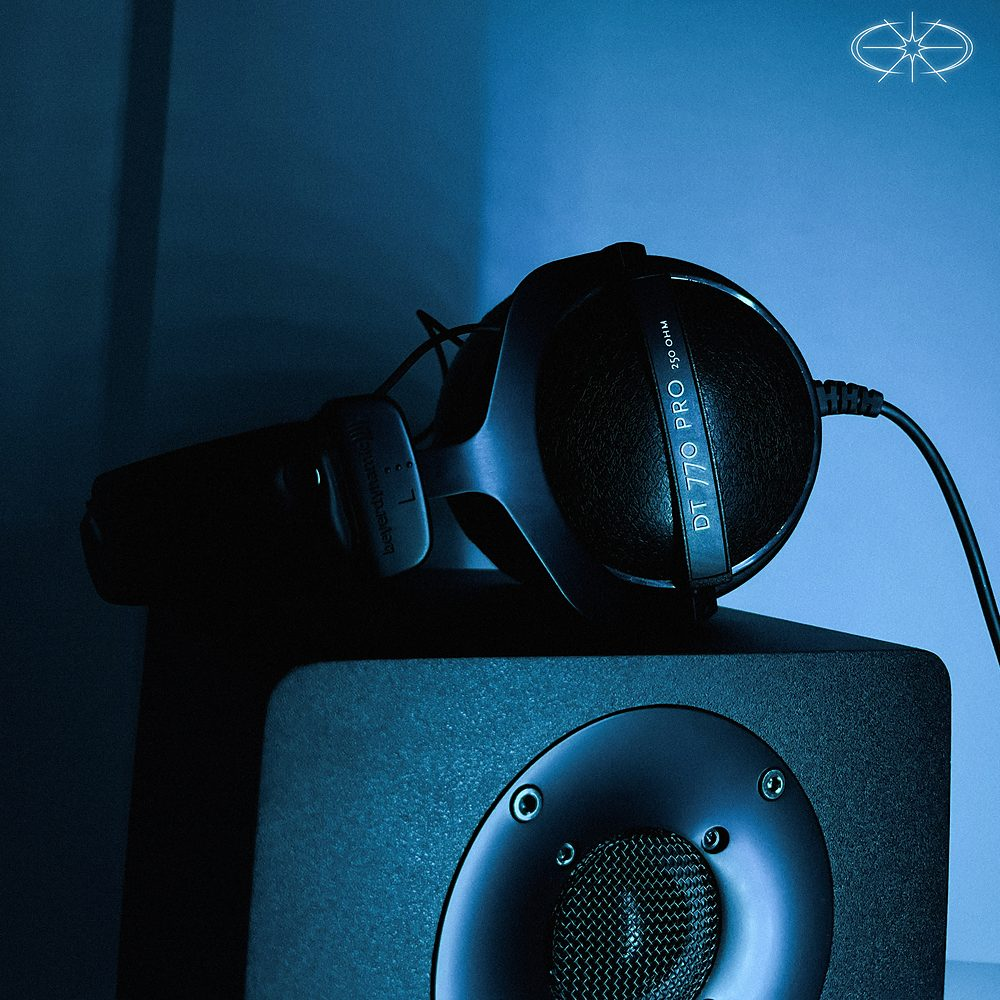
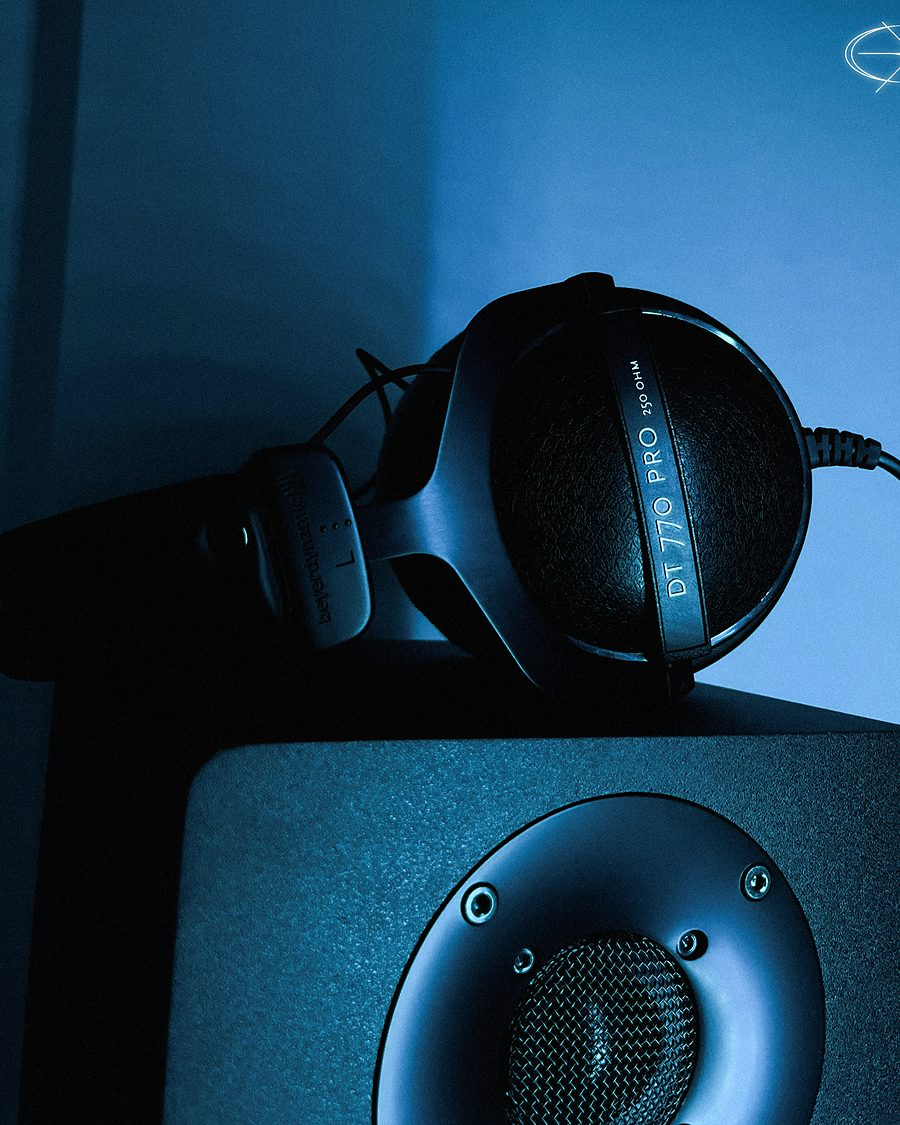
Единый формат 4:5, фото и прозвища Романа и Валерия
Все снимки приведены к одному соотношению 4:5. Выбрал его не наугад:
в наборе три почти квадратных кадра и три портрета 3:4. При 4:5
квадрат теряет 20% ширины, портрет 6% высоты. Квадрат, который стоял
раньше, резал портреты на 25% — отсюда и было то самое приближение.

Добавил фото Романа и Валерия, прозвища вынес под имена:
Роман — GONANIGHT, Валерий — Rockabyes.

На десктопе фото в карточке команды растягивалось под высоту текста,
из-за чего у каждого выходило своё соотношение — от 0.45 до 0.82.
Убрал растяжение, теперь все десять кадров ровно 0.800.

Исходники убрал в _originals/, папка исключена из git и из деплоя.

diff --git a/index.html b/index.html
@@ -431,12 +431,12 @@
     <!-- фото студии: только кадры в одном синем тоне, квадраты 03…08 -->
     <h3 class="sub-h js-fade">Студия</h3>
     <div class="gallery">
-      <figure class="gi js-card"><span class="ph ph-1x1"><img src="assets/photos/studio-03.jpg" alt="Зал студии Narcos Records с синей подсветкой" loading="lazy" width="786" height="786"></span></figure>
-      <figure class="gi js-card"><span class="ph ph-1x1"><img src="assets/photos/studio-04.jpg" alt="Студийный микрофон Neumann крупным планом" loading="lazy" width="800" height="800"></span></figure>
-      <figure class="gi js-card"><span class="ph ph-1x1"><img src="assets/photos/studio-05.jpg" alt="Звуковая карта Focusrite Scarlett на рабочем столе студии" loading="lazy" width="1000" height="1000"></span></figure>
-      <figure class="gi js-card"><span class="ph ph-1x1"><img src="assets/photos/studio-06.jpg" alt="Наушники Beyerdynamic DT 770 Pro на студийном мониторе" loading="lazy" width="1000" height="1000"></span></figure>
-      <figure class="gi js-card"><span class="ph ph-1x1"><img src="assets/photos/studio-07.jpg" alt="Работа за пультом в студии Narcos Records" loading="lazy" width="592" height="592"></span></figure>
-      <figure class="gi js-card"><span class="ph ph-1x1"><img src="assets/photos/studio-08.jpg" alt="Съёмка на синем циклораме в студии" loading="lazy" width="600" height="600"></span></figure>
+      <figure class="gi js-card"><span class="ph ph-4x5"><img src="assets/photos/studio-03.jpg" alt="Зал студии Narcos Records с синей подсветкой" loading="lazy" width="800" height="1000"></span></figure>
+      <figure class="gi js-card"><span class="ph ph-4x5"><img src="assets/photos/studio-04.jpg" alt="Студийный микрофон Neumann крупным планом" loading="lazy" width="800" height="1000"></span></figure>
+      <figure class="gi js-card"><span class="ph ph-4x5"><img src="assets/photos/studio-05.jpg" alt="Звуковая карта Focusrite Scarlett на рабочем столе студии" loading="lazy" width="900" height="1125"></span></figure>
+      <figure class="gi js-card"><span class="ph ph-4x5"><img src="assets/photos/studio-06.jpg" alt="Наушники Beyerdynamic DT 770 Pro на студийном мониторе" loading="lazy" width="900" height="1125"></span></figure>
+      <figure class="gi js-card"><span class="ph ph-4x5"><img src="assets/photos/studio-07.jpg" alt="Работа за пультом в студии Narcos Records" loading="lazy" width="592" height="740"></span></figure>
+      <figure class="gi js-card"><span class="ph ph-4x5"><img src="assets/photos/studio-08.jpg" alt="Съёмка на синем циклораме в студии" loading="lazy" width="600" height="750"></span></figure>
     </div>
 
     <p class="works-foot js-fade">
@@ -462,17 +462,17 @@
     <div class="team-grid">
 
       <article class="member js-card">
-        <span class="ph ph-3x4"><img src="assets/team/roman.jpg" alt="Роман — звукорежиссёр студии Narcos Records" loading="lazy" width="600" height="800"></span>
+        <span class="ph ph-4x5"><img src="assets/team/roman.jpg" alt="Роман GONANIGHT — звукорежиссёр студии Narcos Records" loading="lazy" width="900" height="1125"></span>
         <div class="member-body">
           <p class="role">Звукорежиссёр</p>
-          <h3>Роман</h3>
+          <h3>Роман <span class="alias">GONANIGHT</span></h3>
           <p>Записывает и сводит. В отзывах благодарят чаще всего именно его — за то, что не торопит и объясняет, что вообще происходит со звуком.</p>
           <p>Помогает с бэками и подбирает обработку под голос.</p>
         </div>
       </article>
 
       <article class="member js-card">
-        <span class="ph ph-3x4"><img src="assets/team/anastasia.jpg" alt="Анастасия — преподаватель вокала в Narcos Records" loading="lazy" width="600" height="800"></span>
+        <span class="ph ph-4x5"><img src="assets/team/anastasia.jpg" alt="Анастасия — преподаватель вокала в Narcos Records" loading="lazy" width="600" height="800"></span>
         <div class="member-body">
           <p class="role">Преподаватель вокала</p>
           <h3>Анастасия</h3>
@@ -482,7 +482,7 @@
       </article>
 
       <article class="member js-card">
-        <span class="ph ph-3x4"><img src="assets/team/artem.jpg" alt="Артём — битмейкер студии Narcos Records" loading="lazy" width="600" height="800"></span>
+        <span class="ph ph-4x5"><img src="assets/team/artem.jpg" alt="Артём — битмейкер студии Narcos Records" loading="lazy" width="600" height="800"></span>
         <div class="member-body">
           <p class="role">Битмейкер</p>
           <h3>Артём</h3>
@@ -492,10 +492,10 @@
       </article>
 
       <article class="member js-card">
-        <span class="ph ph-3x4"><img src="assets/team/valeriy.jpg" alt="Валерий — видеограф студии Narcos Records" loading="lazy" width="600" height="800"></span>
+        <span class="ph ph-4x5"><img src="assets/team/valeriy.jpg" alt="Валерий Rockabyes — видеограф студии Narcos Records" loading="lazy" width="499" height="624"></span>
         <div class="member-body">
           <p class="role">Видеограф</p>
-          <h3>Валерий</h3>
+          <h3>Валерий <span class="alias">Rockabyes</span></h3>
           <p>Снимает клипы, сниппеты, рекламу и вертикалку под соцсети. Монтаж и цвет — тоже на нём.</p>
           <p>Снять можно сразу после записи, не выходя из студии.</p>
         </div>

diff --git a/styles.css b/styles.css
@@ -663,8 +663,9 @@ h3{ font-size:19px; font-weight:700 }
   transition:color .3s ease;
 }
 .track figcaption a.alt:hover{ color:var(--fg-mid) }
-/* Кадров шесть: на телефоне две колонки, дальше три — ряды ровные в обоих. */
+/* Все кадры приведены к 4:5, поэтому обычная сетка с ровными рядами. */
 .gallery{ display:grid; grid-template-columns:repeat(2,1fr); gap:10px }
+.gallery .gi{ margin:0 }
 
 .embed{
   position:relative;
@@ -756,9 +757,13 @@ h3{ font-size:19px; font-weight:700 }
 .member-body p{ color:var(--fg-mid); font-size:14.5px }
 .member-body p:last-child{ margin-bottom:0 }
 
-/* на телефоне портрет 3:4 занимает пол-экрана — режем шире */
-@media (max-width:599px){
-  .member .ph{ aspect-ratio:5/4 }
+/* прозвище рядом с именем */
+.member h3 .alias{
+  display:block;
+  margin-top:6px;
+  font-family:var(--mono); font-weight:400;
+  font-size:11px; letter-spacing:.24em; text-transform:uppercase;
+  -webkit-text-fill-color:var(--fg-dim); color:var(--fg-dim);
 }
 
 
@@ -1001,8 +1006,10 @@ h3{ font-size:19px; font-weight:700 }
   .rev:nth-child(2n){ border-right:1px solid var(--hair) }
   .rev:nth-child(3n){ border-right:0 }
   .cta-grid{ grid-template-columns:repeat(6,1fr) }
-  .member{ display:grid; grid-template-columns:minmax(0,300px) 1fr; align-items:stretch }
-  .member .ph{ height:100%; aspect-ratio:auto; min-height:360px }
+  /* фото держит 4:5 на всех экранах, поэтому не растягиваем его
+     под высоту карточки — иначе у каждого получалось своё соотношение */
+  .member{ display:grid; grid-template-columns:minmax(0,300px) 1fr; align-items:start }
+  .member .ph{ align-self:start }
   .member-body{ padding:44px 40px }
   .ftr-grid{ grid-template-columns:1.6fr 1fr 1fr 1fr; gap:56px }
   .map{ height:480px }
